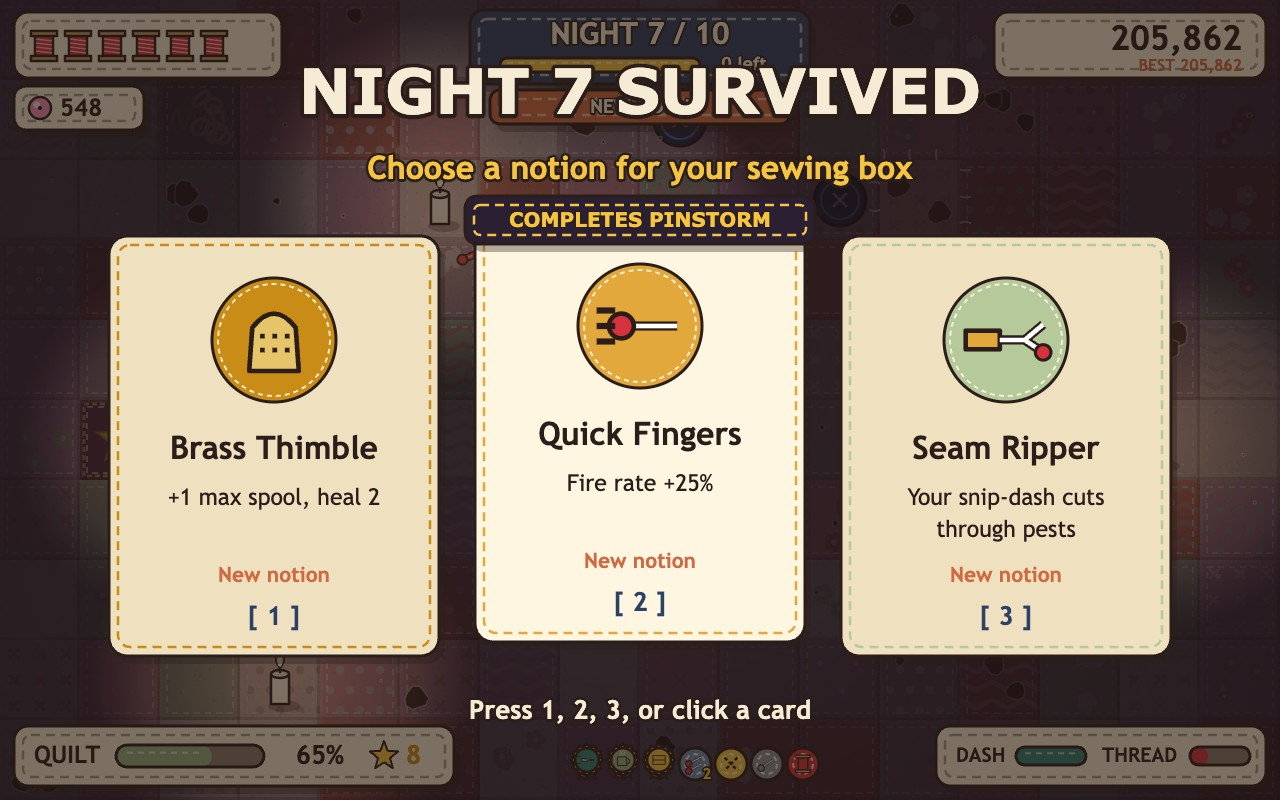
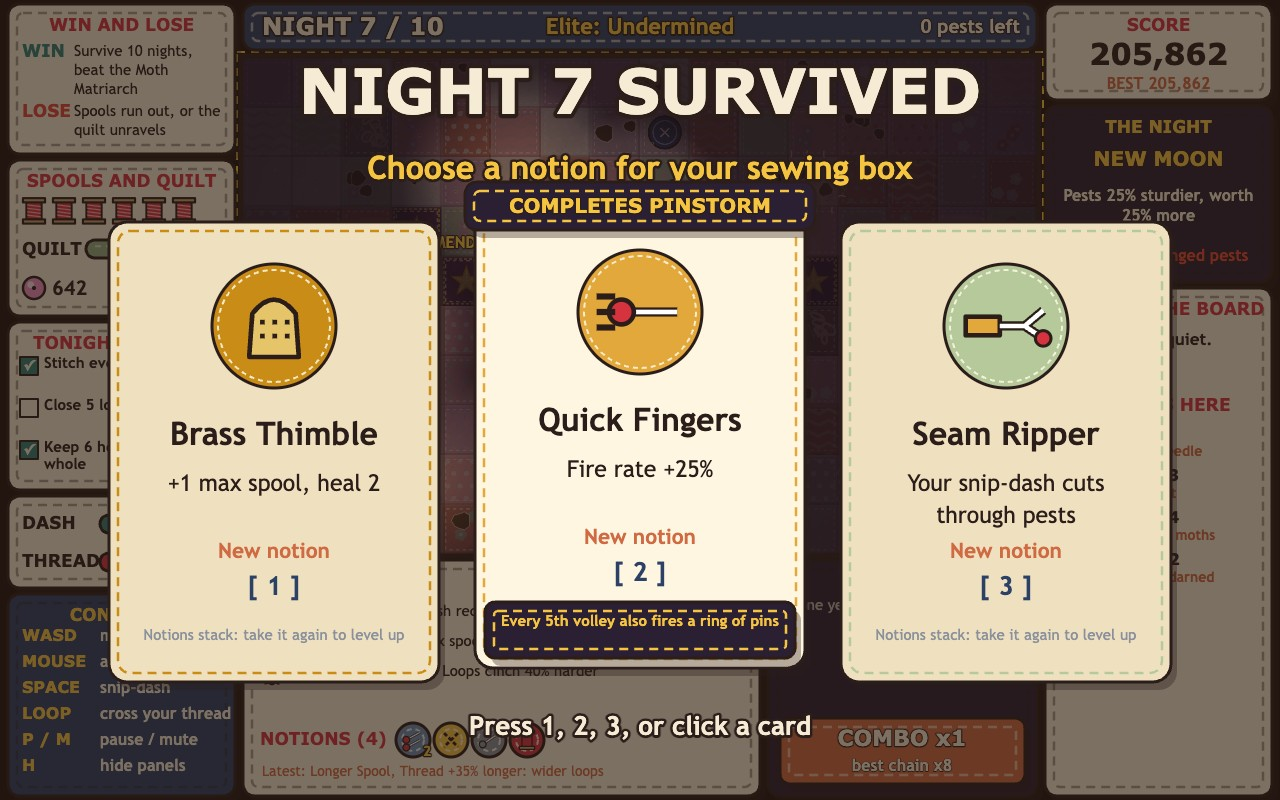
Road legend says what each patch gives; draft cards state their synergy's effect; fuller win card; audio/mixer.js; refreshed screenshots

diff --git a/game/ui/road-screen.js b/game/ui/road-screen.js
@@ -36,7 +36,7 @@ export function drawRoad(ctx, run, view) {
   dimScreen(ctx, VIEW.width, VIEW.height, 0.45);
   drawText(ctx, 'STITCHBOUND', 150, 42, { size: 34, color: PALETTE.cream, font: FONT.display, outline: 6, stitch: PALETTE.thread });
   drawText(ctx, 'THE QUILT ROAD', VIEW.width / 2, 52, { size: 52, color: PALETTE.gold, font: FONT.plain, outline: 8 });
-  drawText(ctx, `${run.quilt.theme.name}  ·  seed ${run.seed}`, VIEW.width / 2, 100, { size: 20, color: PALETTE.cream, outline: 4 });
+  drawText(ctx, `Seed ${run.seed}  ·  click a glowing patch, or press 1, 2, 3`, VIEW.width / 2, 100, { size: 20, color: PALETTE.cream, outline: 4 });
   drawKitStrip(ctx, run);
 
   drawFeltPanel(ctx, 50, 170, 1180, 470, 'rgba(239,224,192,0.94)', 'rgba(42,29,26,0.45)', 24);
@@ -122,14 +122,26 @@ function drawNodeInfo(ctx, node) {
   drawText(ctx, mod ? `${mod.name}: ${mod.text}` : node.type === 'fight' ? 'A quiet night' : ' ', VIEW.width / 2, 656, { size: 19, color: mod && mod.tone === 'good' ? '#9fe0c8' : mod ? PALETTE.threadLight : PALETTE.paper, outline: 3 });
 }
 
+/** The key to the road: every kind of patch and what it gives. */
+const LEGEND = [
+  ['fight', 'Night', 'a notion'],
+  ['elite', 'Elite', 'notion + relic'],
+  ['treasure', 'Sewing Box', 'a relic'],
+  ['rest', 'Tea & Rest', 'heal or darn'],
+  ['merchant', 'Peddler', 'spend sequins'],
+  ['event', 'Mystery', 'a risky choice'],
+  ['boss', 'Boss', 'a relic; night 10 wins'],
+];
+
 function drawLegend(ctx, time) {
-  const entries = ['fight', 'elite', 'treasure', 'rest', 'merchant', 'event', 'boss'];
-  const step = 168;
-  const x0 = VIEW.width / 2 - (step * (entries.length - 1)) / 2;
-  entries.forEach((type, i) => {
-    const x = x0 + i * step;
-    drawNodeIcon(ctx, type, x - 44, 732, 40, time);
-    drawText(ctx, NODE_TYPES[type].name, x - 18, 733, { size: 18, color: PALETTE.cream, align: 'left', outline: 4 });
+  LEGEND.forEach(([type, name, gives], i) => {
+    const row = i < 4 ? 0 : 1;
+    const col = row === 0 ? i : i - 4;
+    const x = (row === 0 ? 40 : 190) + col * 305;
+    const y = 708 + row * 50;
+    drawNodeIcon(ctx, type, x + 20, y, 40, time);
+    drawText(ctx, `${name}:`, x + 48, y, { size: 19, color: PALETTE.gold, align: 'left', outline: 4, font: FONT.plain });
+    ctx.font = `bold 19px ${FONT.plain}`;
+    drawText(ctx, gives, x + 56 + ctx.measureText(`${name}:`).width, y, { size: 19, color: PALETTE.cream, align: 'left', outline: 4 });
   });
-  drawText(ctx, 'Click a glowing patch, or press 1, 2, 3', VIEW.width / 2, 778, { size: 18, color: PALETTE.gold, outline: 4 });
 }

diff --git a/game/ui/cards-screen.js b/game/ui/cards-screen.js
@@ -8,10 +8,10 @@ import { dimScreen, drawFeltPanel, drawText, drawWrapped } from './widgets.js';
 
 export function cardRects(count) {
   const w = count >= 4 ? 280 : 330;
-  const h = 420;
+  const h = 460;
   const gap = count >= 4 ? 20 : 36;
   const x0 = VIEW.width / 2 - (w * count + gap * (count - 1)) / 2;
-  return Array.from({ length: count }, (_, i) => ({ x: x0 + i * (w + gap), y: 236, w, h }));
+  return Array.from({ length: count }, (_, i) => ({ x: x0 + i * (w + gap), y: 222, w, h }));
 }
 
 export function drawCards(ctx, offer, hover, age) {
@@ -34,14 +34,19 @@ export function drawCards(ctx, offer, hover, age) {
     drawText(ctx, choice.name, r.w / 2, 214, { size: r.w < 300 ? 28 : 32, color: PALETTE.ink, outline: 0 });
     drawWrapped(ctx, choice.text, r.w / 2, 262, r.w - 50, 32, { size: 23, color: PALETTE.ink, outline: 0, weight: 'normal' });
     const tag = choice.kind === 'notion' ? (choice.level > 0 ? `Level ${choice.level} -> ${choice.level + 1}` : 'New notion') : relic ? 'RELIC' : ' ';
-    drawText(ctx, tag, r.w / 2, 340, { size: 21, color: PALETTE.terracotta, outline: 0 });
-    drawText(ctx, `[ ${i + 1} ]`, r.w / 2, 382, { size: 26, color: PALETTE.navy, outline: 0 });
+    drawText(ctx, tag, r.w / 2, 330, { size: 21, color: PALETTE.terracotta, outline: 0 });
+    drawText(ctx, `[ ${i + 1} ]`, r.w / 2, 366, { size: 26, color: PALETTE.navy, outline: 0 });
     if (choice.completes && choice.completes.length > 0) {
       drawFeltPanel(ctx, -10, -26, r.w + 20, 48, '#2b1f33', PALETTE.gold, 12);
       drawText(ctx, `COMPLETES ${choice.completes[0].toUpperCase()}`, r.w / 2, -1, { size: 20, color: PALETTE.gold, outline: 3, font: FONT.plain });
+      // What the synergy does, on a dark band at the foot of the card.
+      drawFeltPanel(ctx, 10, r.h - 66, r.w - 20, 56, '#2b1f33', PALETTE.gold, 10);
+      drawWrapped(ctx, choice.completesText, r.w / 2, r.h - 46, r.w - 44, 18, { size: 15, color: PALETTE.gold, outline: 0 });
+    } else if (choice.kind !== 'rest') {
+      drawWrapped(ctx, choice.kind === 'relic' ? 'Relics last the whole run' : 'Notions stack: take it again to level up', r.w / 2, r.h - 46, r.w - 44, 18, { size: 15, color: PALETTE.steelDark, outline: 0, weight: 'normal' });
     }
     ctx.restore();
   });
   const keys = offer.choices.map((_, i) => i + 1).join(', ');
-  drawText(ctx, `Press ${keys}, or click a card`, VIEW.width / 2, 712, { size: 26, color: PALETTE.cream, outline: 6 });
+  drawText(ctx, `Press ${keys}, or click a card`, VIEW.width / 2, 728, { size: 26, color: PALETTE.cream, outline: 6 });
 }

diff --git a/game/run/run.js b/game/run/run.js
@@ -112,27 +112,35 @@ export function enterNode(run, node) {
 
 /** After a cleared night: the notion draft (four cards with a Needle Case). */
 export function offerNotions(run) {
-  const choices = draftNotions(run.rng, run.owned, run.mods.draftSize).map((n) => ({
-    kind: 'notion',
-    id: n.id,
-    name: n.name,
-    text: n.text,
-    color: n.color,
-    level: run.owned[n.id] ?? 0,
-    completes: synergiesCompletedBy(run.owned, run.relics, { notion: n.id }).map((s) => s.name),
-  }));
+  const choices = draftNotions(run.rng, run.owned, run.mods.draftSize).map((n) => {
+    const synergies = synergiesCompletedBy(run.owned, run.relics, { notion: n.id });
+    return {
+      kind: 'notion',
+      id: n.id,
+      name: n.name,
+      text: n.text,
+      color: n.color,
+      level: run.owned[n.id] ?? 0,
+      completes: synergies.map((s) => s.name),
+      completesText: synergies[0]?.text ?? '',
+    };
+  });
   run.offer = { kind: 'notion', title: `NIGHT ${run.depth} SURVIVED`, subtitle: 'Choose a notion for your sewing box', choices };
 }
 
 function offerRelics(run, title, subtitle) {
-  const choices = draftRelics(run.rng, run.relics, 3).map((r) => ({
-    kind: 'relic',
-    id: r.id,
-    name: r.name,
-    text: r.text,
-    color: r.color,
-    completes: synergiesCompletedBy(run.owned, run.relics, { relic: r.id }).map((s) => s.name),
-  }));
+  const choices = draftRelics(run.rng, run.relics, 3).map((r) => {
+    const synergies = synergiesCompletedBy(run.owned, run.relics, { relic: r.id });
+    return {
+      kind: 'relic',
+      id: r.id,
+      name: r.name,
+      text: r.text,
+      color: r.color,
+      completes: synergies.map((s) => s.name),
+      completesText: synergies[0]?.text ?? '',
+    };
+  });
   if (choices.length === 0) return false;
   run.offer = { kind: 'relic', title, subtitle, choices };
   return true;

diff --git a/game/ui/results-screen.js b/game/ui/results-screen.js
@@ -14,7 +14,7 @@ const HEADLINES = {
 };
 
 export function drawResults(ctx, summary, time) {
-  dimScreen(ctx, VIEW.width, VIEW.height, 0.62);
+  dimScreen(ctx, VIEW.width, VIEW.height, 0.82);
   const [title, line, color] = HEADLINES[summary.outcome];
   drawText(ctx, title, VIEW.width / 2, 70, { size: 70, color, font: FONT.display, outline: 10, stitch: PALETTE.cream });
   drawText(ctx, `${line}   ${summary.mode} · ${summary.needle}`, VIEW.width / 2, 132, { size: 24, color: PALETTE.cream, outline: 5 });
@@ -40,10 +40,11 @@ export function drawResults(ctx, summary, time) {
     ['Heirlooms kept', `${summary.heirlooms} / 8`],
     ['Sequins earned', formatNumber(summary.sequins)],
     ['Top combo', `x${summary.combo}`],
+    ['Night goals met', String(summary.goals)],
     ['Time', formatTime(summary.time)],
   ];
   stats.forEach(([label, value], i) => {
-    const y = py + 40 + i * 33;
+    const y = py + 36 + i * 31;
     drawText(ctx, label, px + 520, y, { size: 22, color: PALETTE.ink, align: 'left', outline: 0, weight: 'normal' });
     drawText(ctx, value, px + 930, y, { size: 24, color: PALETTE.navy, align: 'right', outline: 0 });
   });

diff --git a/game/ui/hud-panels.js b/game/ui/hud-panels.js
@@ -184,7 +184,7 @@ function drawPatchList(ctx, run, top) {
   const counts = {};
   for (const p of run.quilt.patches) if (p.kind && p.hp > 0) counts[p.kind] = (counts[p.kind] ?? 0) + 1;
   const kinds = Object.keys(PATCH_KINDS).filter((k) => counts[k]);
-  drawText(ctx, 'PATCHES ON THE BOARD', RIGHT + COL / 2, top, { size: 17, color: PALETTE.thread, outline: 0, font: FONT.plain });
+  drawText(ctx, 'PATCHES HERE', RIGHT + COL / 2, top, { size: 17, color: PALETTE.thread, outline: 0, font: FONT.plain });
   if (kinds.length === 0) line(ctx, 'Plain cloth tonight', RIGHT + 16, top + 30, { size: 15, weight: 'normal' });
   kinds.forEach((kind, i) => {
     const info = PATCH_KINDS[kind];

diff --git a/game/audio/mixer.js b/game/audio/mixer.js
@@ -1,5 +1,6 @@
-// The game's one audio front door: starts the synthesiser on the first click or key (as browsers
-// require), plays the effect for each game event (rate-limited per kind), picks the music, mutes.
+// The audio mixer, the game's one audio front door: starts the synthesiser on the first click or
+// key (as browsers require), plays the effect for each game event (rate-limited per kind), picks
+// the music for the moment, and mutes.
 import { createSynth } from './synth.js';
 import { soundTable } from './sfx.js';
 import { createMusic } from './music.js';

diff --git a/game/main.js b/game/main.js
@@ -25,7 +25,7 @@ import { drawPause } from './ui/pause-screen.js';
 import { CODEX_BACK, drawCodex } from './ui/codex-screen.js';
 import { createPilot, pilotChooseCard, pilotChooseNode, pilotChooseOption, pilotChooseWare, pilotIntent } from './demo/autopilot.js';
 import { stageShot } from './demo/shots.js';
-import { createAudio } from './audio/sound.js';
+import { createAudio } from './audio/mixer.js';
 import { createInput } from './core/input.js';
 import { bestScore, recordScore } from './core/storage.js';
 import { inRect } from './core/geometry.js';

diff --git a/game/run/summary.js b/game/run/summary.js
@@ -21,6 +21,7 @@ export function summarizeRun(run, previousBest, unlocked = []) {
     mended: run.stats.mended,
     sequins: run.stats.sequins,
     combo: run.combo.best,
+    goals: run.stats.goals,
     heirlooms: heirloomsKept(run.quilt),
     time: run.time,
     owned: Object.keys(run.owned),
